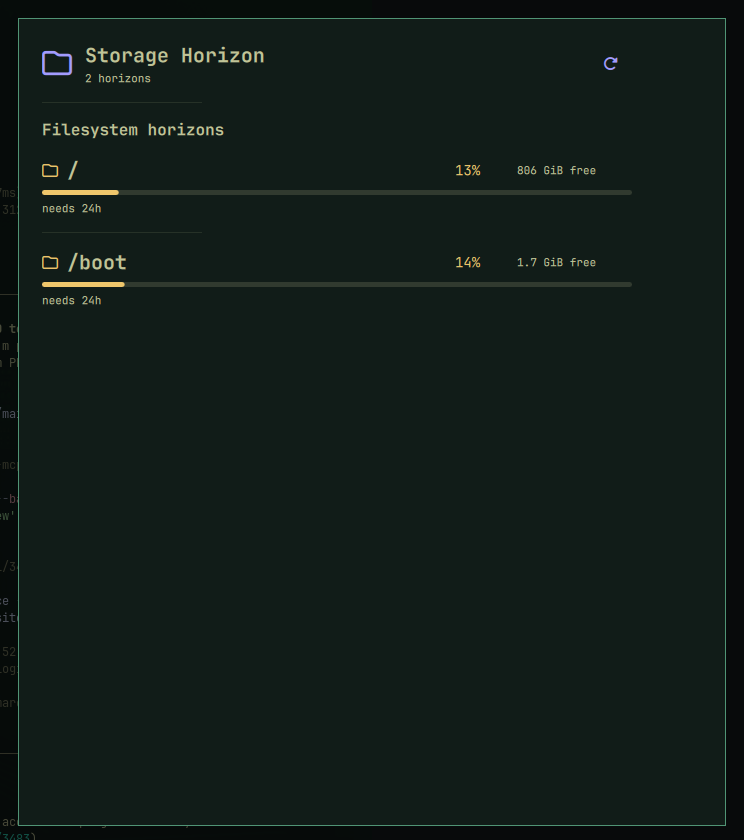
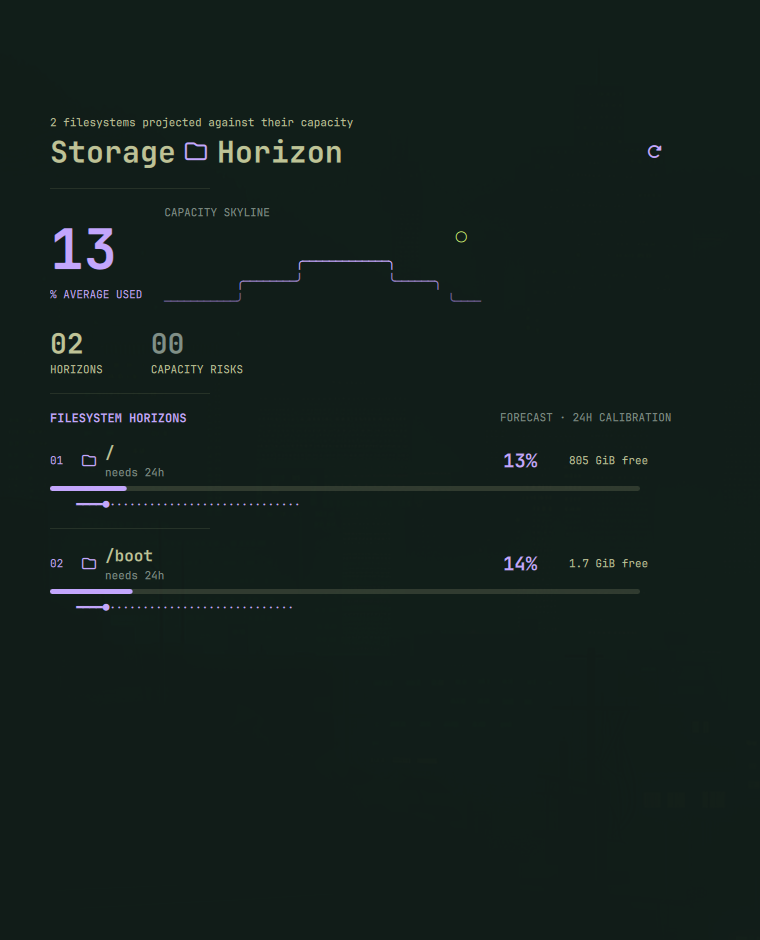
Redesign Storage Horizon as a capacity skyline

diff --git a/main.rb b/main.rb
@@ -367,54 +367,95 @@ OmarchyUI.plugin do
   end
 
   bar_widget do
-    row spacing: 7 do
-      icon :folder, color: "#a29bfe"
-      text { state.snapshot.fetch("summary") }
+    row spacing: 6 do
+      icon :folder, size: 14, color: "#c6a7ff"
+      text "STORAGE", style: :caption, color: "#c6a7ff"
+      text(style: :caption) { state.snapshot.fetch("summary") }
     end
     on_click { open_panel :storage_horizon }
   end
 
   panel :storage_horizon do
-    scroll width: 660, height: 760 do
+    scroll width: 660, height: 780 do
       dynamic id: :scene, spacing: 16 do
         entries = state.snapshot.fetch("items")
-        history = state.snapshot.fetch("history")
+        percentages = entries.map { |entry| first_number.call(entry.fetch("detail", "")) }
+        average = percentages.empty? ? 0 : percentages.sum / percentages.length
+        tight = entries.count { |entry| entry.fetch("status", "") == "tight" }
 
-        row spacing: 12 do
-          icon :folder, size: 30, color: "#a29bfe"
-          column spacing: 2 do
-            text "Storage Horizon", style: :heading, width: 500
-            text state.snapshot.fetch("summary"), style: :caption, width: 500
-          end
-          action_button :refresh, tooltip: "Refresh", foreground: "#a29bfe" do
-            async(&refresh)
+        column spacing: 2 do
+          text "#{entries.length} filesystems projected against their capacity", style: :caption, width: 610
+          row spacing: 9 do
+            text "Storage", size: 30, bold: true
+            icon :folder, size: 22, color: "#c6a7ff"
+            text "Horizon", size: 30, bold: true, width: 415
+            action_button :refresh, tooltip: "Recalculate horizons", foreground: "#c6a7ff" do
+              async(&refresh)
+            end
           end
         end
 
         separator
-        section_header "Filesystem horizons"
-            if entries.empty?
-              column spacing: 8 do
-                        icon :folder, size: 34, color: "#a29bfe"
-                        text "Nothing to show yet", style: :heading
-                        text "Mounted filesystems will appear with usage and growth forecasts.", style: :caption, wrap: true, width: 560
-                      end
-            else
-              entries.first(12).each_with_index do |entry, index|
-                percent_used = first_number.call(entry.fetch("detail", ""))
-                column spacing: 6 do
-                  row spacing: 8 do
-                    icon :folder, color: status_color.call(entry.fetch("status", ""))
-                    text entry.fetch("title"), style: :heading, width: 380
-                    text "#{percent_used}%", color: status_color.call(entry.fetch("status", "")), width: 54
-                    text entry.fetch("meta", ""), style: :caption, width: 110
-                  end
-                  progress(percent_used, minimum: 0, maximum: 100, width: 590, height: 5, color: status_color.call(entry.fetch("status", "")))
-                      text entry.fetch("detail", "").split(" · ").last.to_s, style: :caption
+        row spacing: 22 do
+          column spacing: 1 do
+            text average.to_s.rjust(2, "0"), size: 56, bold: true, color: "#c6a7ff"
+            text "% AVERAGE USED", style: :caption, color: "#c6a7ff"
+          end
+          column spacing: 5 do
+            text "CAPACITY SKYLINE", style: :caption, color: "#829088"
+            text "                           ○", size: 18, color: "#d8ff73"
+            text "                    ╭─────────────╮", style: :caption, color: "#c6a7ff"
+            text "           ╭────────╯             ╰──────╮", style: :caption, color: "#9a82c9"
+            text "───────────╯                               ╰────", style: :caption, color: "#6d5d91"
+          end
+        end
+        row spacing: 48 do
+          column spacing: 0 do
+            text entries.length.to_s.rjust(2, "0"), size: 28, bold: true
+            text "HORIZONS", style: :caption
+          end
+          column spacing: 0 do
+            text tight.to_s.rjust(2, "0"), size: 28, bold: true,
+                 color: tight.zero? ? "#829088" : "#ff8b8b"
+            text "CAPACITY RISKS", style: :caption
+          end
+        end
+        separator
+        row spacing: 10 do
+          text "FILESYSTEM HORIZONS", size: 12, bold: true, color: "#c6a7ff", width: 440
+          text "FORECAST · 24H CALIBRATION", style: :caption, color: "#829088"
+        end
+
+        if entries.empty?
+          column spacing: 8 do
+            icon :folder, size: 30, color: "#c6a7ff"
+            text "No storage horizon yet", size: 21, bold: true
+            text "Mounted filesystems appear here with usage and growth forecasts.",
+                 style: :caption, wrap: true, width: 560
+          end
+        else
+          entries.first(12).each_with_index do |entry, index|
+            percent_used = first_number.call(entry.fetch("detail", ""))
+            horizon_color = entry.fetch("status", "") == "tight" ? "#ff8b8b" : "#c6a7ff"
+            column spacing: 6 do
+              row spacing: 8 do
+                text (index + 1).to_s.rjust(2, "0"), style: :caption, color: horizon_color, width: 24
+                icon :folder, size: 14, color: horizon_color
+                column spacing: 1 do
+                  text entry.fetch("title"), size: 16, bold: true, width: 390, wrap: true
+                  text entry.fetch("detail", "").split(" · ").last.to_s,
+                       style: :caption, width: 390, color: "#829088", wrap: true
                 end
-                separator unless index == [entries.length, 12].min - 1
+                text "#{percent_used}%", size: 19, bold: true, color: horizon_color, width: 58
+                text entry.fetch("meta", ""), style: :caption, width: 100
               end
+              progress(percent_used, minimum: 0, maximum: 100, width: 590, height: 5, color: horizon_color)
+              text "    #{"━" * [percent_used / 3, 1].max}●#{"·" * [(100 - percent_used) / 3, 1].max}",
+                   style: :caption, color: horizon_color
             end
+            separator unless index == [entries.length, 12].min - 1
+          end
+        end
       end
     end
   end
